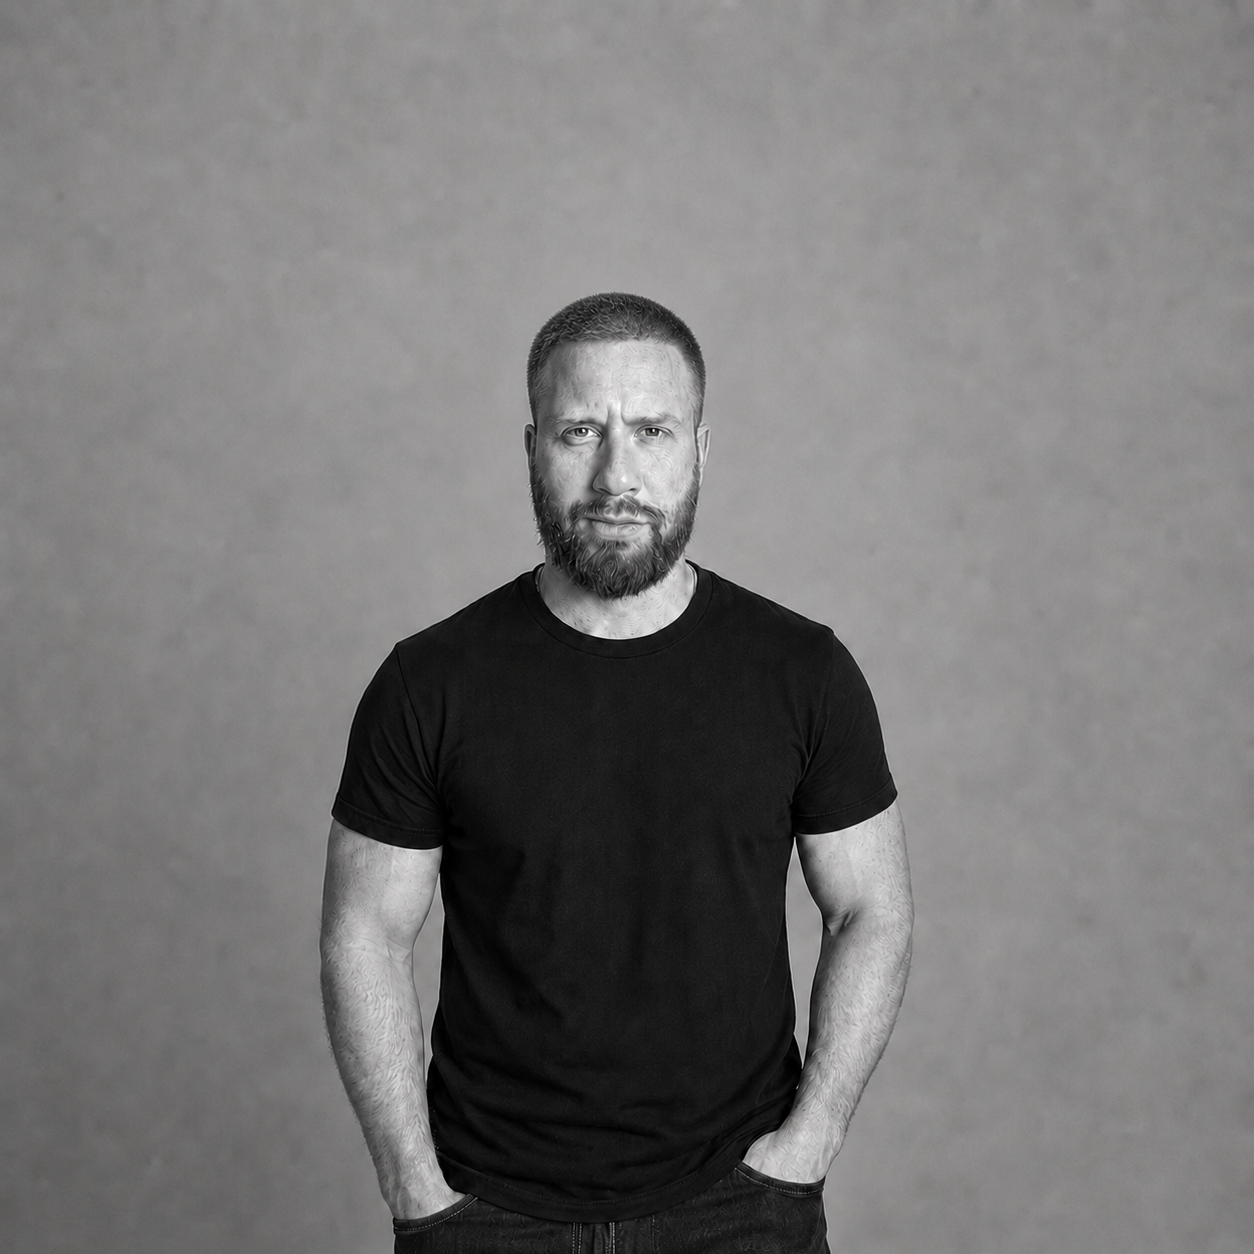
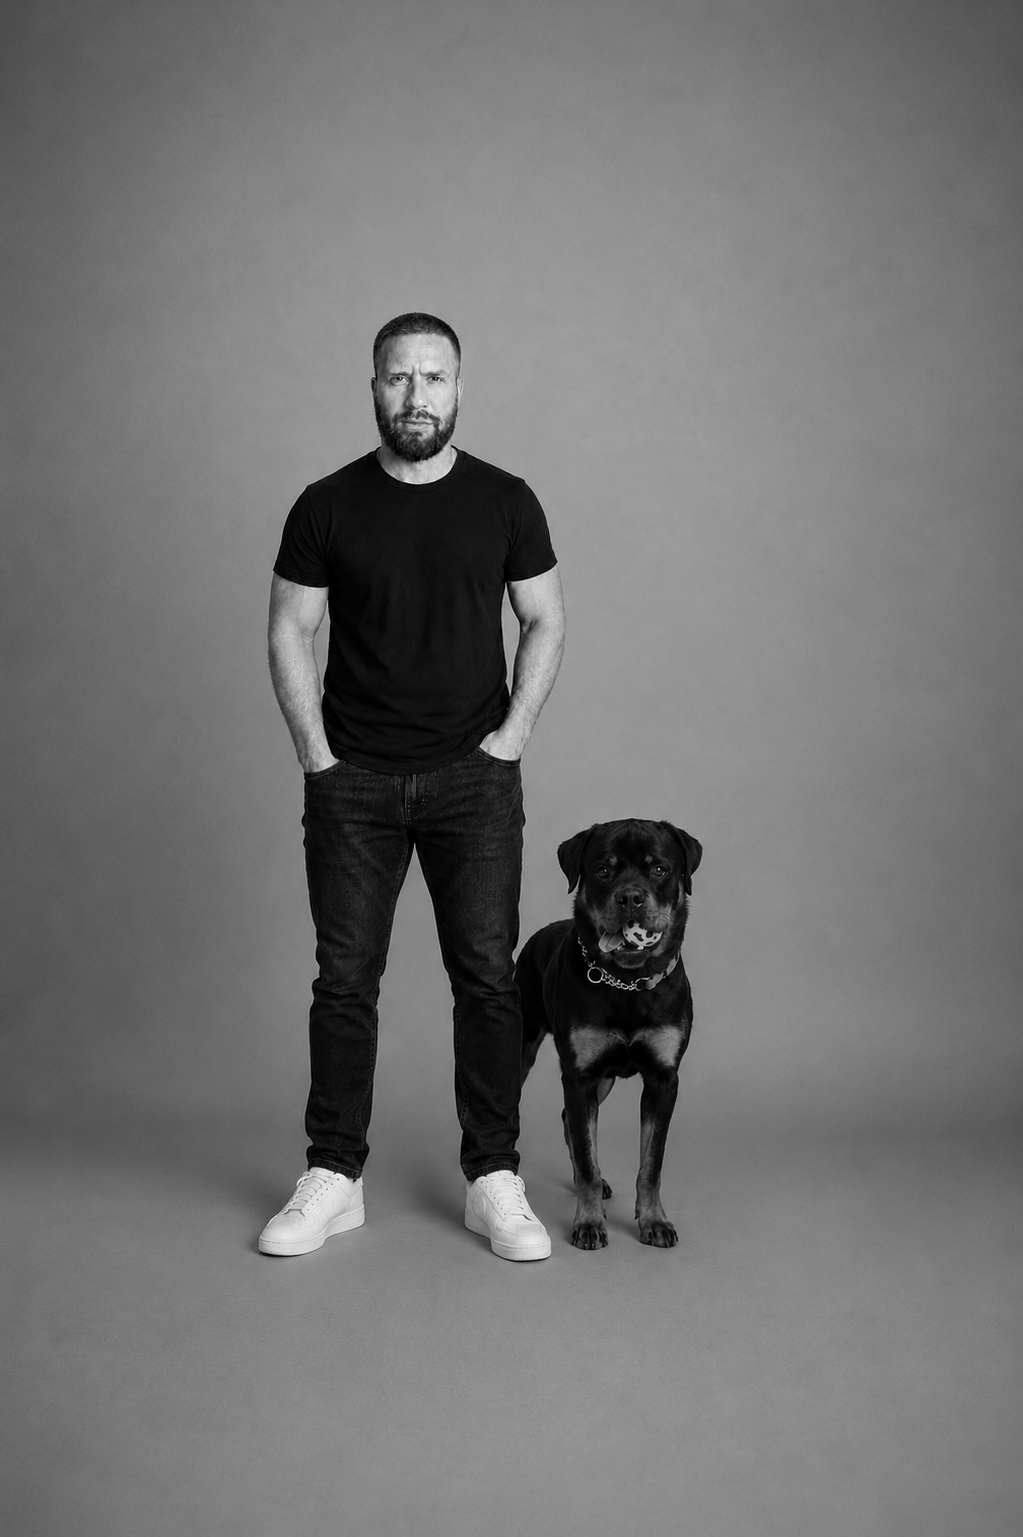
Swap About portrait for Andre + Bentley shot
Replace the previous headshot with a full-body shot of Andre and
Bentley. Stretch the .about-photo frame to align with the right
column's full height (bio + meta row) by switching the grid to
align-items: stretch and dropping the fixed 4/5 aspect ratio on
desktop. The aspect ratio is retained at mobile breakpoints.

Add a small zoom transform (scale 1.2 anchored at 50%/60%) so the
figures fill the frame instead of leaving empty studio background
at the top.

diff --git a/src/index.css b/src/index.css
@@ -602,20 +602,23 @@ section { padding: 96px 0; }
 /* ─── ABOUT ──────────────────────────────────────────────────────────────── */
 #about { background: var(--bg); }
 .about-grid {
-  display: grid; grid-template-columns: 380px 1fr; gap: 80px; align-items: start;
+  display: grid; grid-template-columns: 380px 1fr; gap: 80px; align-items: stretch;
 }
-@media (max-width: 900px) { .about-grid { grid-template-columns: 1fr; gap: 48px; } }
+@media (max-width: 900px) { .about-grid { grid-template-columns: 1fr; gap: 48px; align-items: start; } }
 
 .about-photo {
   border-radius: var(--r-lg); overflow: hidden;
   border: 1px solid var(--border);
   background: var(--surface);
-  aspect-ratio: 4/5;
   position: relative;
+  min-height: 0;
 }
+@media (max-width: 900px) { .about-photo { aspect-ratio: 4/5; } }
 .about-photo img {
-  width: 100%; height: 100%; object-fit: cover; display: block;
+  width: 100%; height: 100%; object-fit: cover; object-position: center 65%; display: block;
   position: relative; z-index: 1;
+  transform: scale(1.2);
+  transform-origin: 50% 60%;
 }
 
 .about-bio-text {
